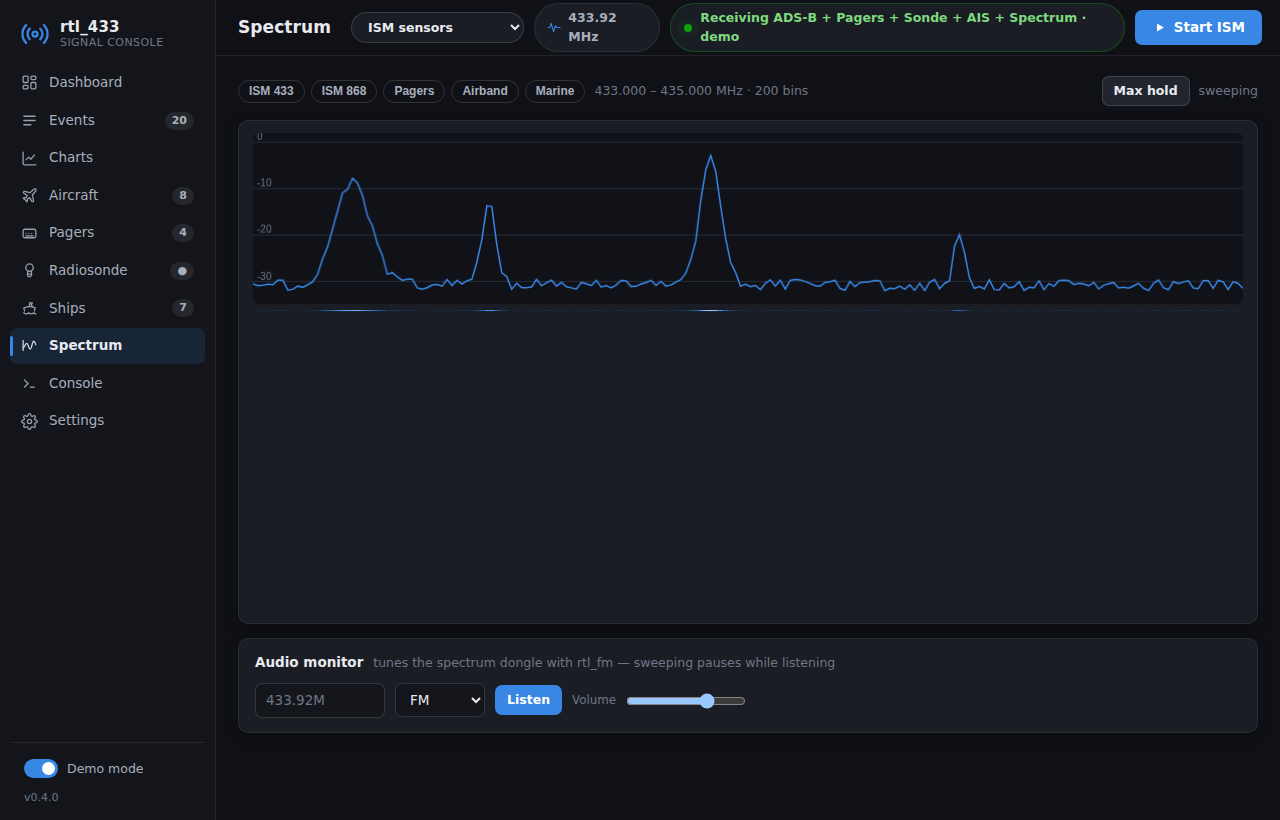
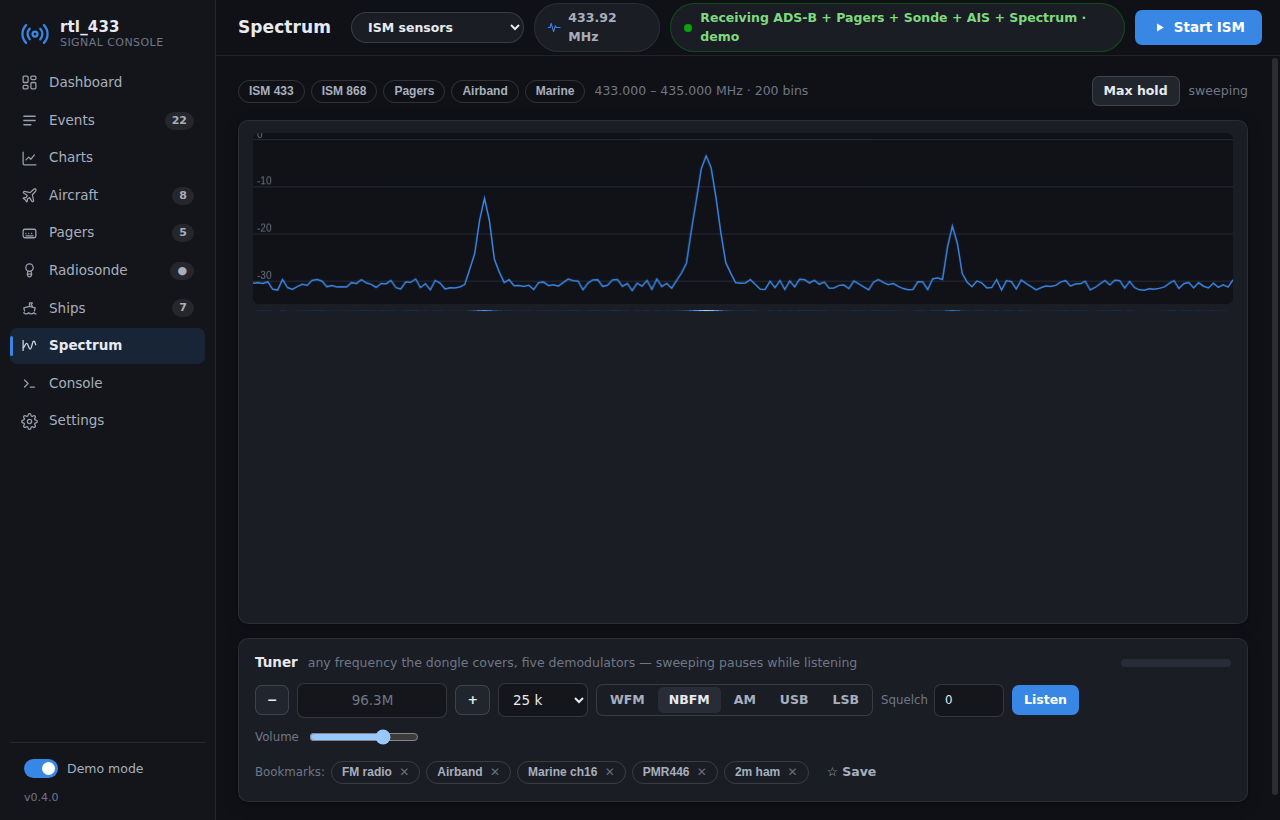
Grow the spectrum audio monitor into a general-coverage tuner (GUI 0.4.1)
Any frequency the dongle supports, five demodulators (WFM broadcast,
NBFM, AM for airband, USB/LSB for SSB), step buttons with selectable
step size, squelch, live retuning while listening, savable bookmarks
(seeded with FM radio / airband / marine ch16 / PMR446 / 2m ham), and
an audio level meter. Clicking a peak on the sweep trace still tunes
straight to it.

Claude-Session: https://claude.ai/code/session_01Qqgn7sB64pZNv3p4Phjj2r

diff --git a/gui/renderer/js/views/spectrum.js b/gui/renderer/js/views/spectrum.js
@@ -12,6 +12,26 @@ let listening = false;
 let audioCtx = null;
 let gainNode = null;
 let nextAudioTime = 0;
+let audioRate = 24000; // set from the active demodulator on listenStart
+let selectedDemod = 'nbfm';
+let meterDecay = 0;
+
+// '96.3M' / '156800k' / '96300000' -> Hz (null when unparsable)
+function parseFreqHz(s) {
+  const m = String(s).trim().match(/^([\d.]+)\s*([MkG]?)(?:Hz)?$/i);
+  if (!m) return null;
+  let v = parseFloat(m[1]);
+  const suf = m[2].toUpperCase();
+  if (suf === 'G') v *= 1e9;
+  else if (suf === 'M') v *= 1e6;
+  else if (suf === 'K') v *= 1e3;
+  else if (v < 3000) v *= 1e6; // a bare small number means MHz
+  return Math.round(v);
+}
+
+function fmtFreqM(hz) {
+  return `${+(hz / 1e6).toFixed(6)}M`;
+}
 
 const TRACE_H = 170;
 const WATER_H = 300;
@@ -42,19 +62,38 @@ export function initSpectrum() {
     </div>
     <div class="chart-card" style="padding:14px 16px">
       <div class="chart-head" style="margin-bottom:10px">
-        <span class="chart-title">Audio monitor</span>
-        <span class="section-sub">tunes the spectrum dongle with rtl_fm — sweeping pauses while listening</span>
+        <span class="chart-title">Tuner</span>
+        <span class="section-sub">any frequency the dongle covers, five demodulators — sweeping pauses while listening</span>
+        <div class="chart-legend"><span class="tuner-meter" id="sp-meter" title="Audio level"><i></i></span></div>
       </div>
-      <div class="form-field" style="gap:10px">
-        <input type="text" id="sp-listen-freq" style="width:130px" placeholder="433.92M" />
-        <select id="sp-listen-mode" style="width:90px">
-          <option value="fm">FM</option>
-          <option value="am">AM</option>
+      <div class="form-field" style="gap:8px;margin-bottom:10px">
+        <button class="btn btn-sm" id="sp-step-down">−</button>
+        <input type="text" id="sp-listen-freq" class="tuner-freq" placeholder="96.3M" />
+        <button class="btn btn-sm" id="sp-step-up">+</button>
+        <select id="sp-step" style="width:90px" title="Step size">
+          <option value="12500">12.5 kHz</option>
+          <option value="25000" selected>25 kHz</option>
+          <option value="100000">100 kHz</option>
+          <option value="1000000">1 MHz</option>
         </select>
+        <div class="seg" id="sp-demod">
+          <button data-demod="wfm">WFM</button>
+          <button data-demod="nbfm" class="active">NBFM</button>
+          <button data-demod="am">AM</button>
+          <button data-demod="usb">USB</button>
+          <button data-demod="lsb">LSB</button>
+        </div>
+        <label class="form-hint" style="display:flex;align-items:center;gap:6px" title="Mute below this level (NBFM/AM)">Squelch
+          <input type="number" id="sp-squelch" min="0" max="1000" value="0" style="width:70px" /></label>
         <button class="btn btn-sm btn-primary" id="sp-listen-btn">Listen</button>
         <label class="form-hint" style="display:flex;align-items:center;gap:8px">Volume
-          <input type="range" id="sp-volume" min="0" max="100" value="70" style="width:120px" /></label>
+          <input type="range" id="sp-volume" min="0" max="100" value="70" style="width:110px" /></label>
         <span class="form-hint" id="sp-listen-status"></span>
+      </div>
+      <div class="form-field" style="gap:6px">
+        <span class="form-hint">Bookmarks:</span>
+        <div class="preset-chips" id="sp-bookmarks"></div>
+        <button class="btn btn-ghost btn-sm" id="sp-bookmark-add" title="Bookmark the current frequency and demodulator">☆ Save</button>
       </div>
     </div>
     <div class="empty-state" id="sp-empty">
@@ -120,6 +159,58 @@ export function initSpectrum() {
   document.getElementById('sp-volume').addEventListener('input', (e) => {
     if (gainNode) gainNode.gain.value = Number(e.target.value) / 100;
   });
+
+  // tuner controls: steps, demodulator, squelch, bookmarks
+  const stepBy = (dir) => {
+    const hz = parseFreqHz(document.getElementById('sp-listen-freq').value || '96.3M');
+    if (hz == null) return;
+    const step = Number(document.getElementById('sp-step').value);
+    document.getElementById('sp-listen-freq').value = fmtFreqM(hz + dir * step);
+    retuneIfLive();
+  };
+  document.getElementById('sp-step-down').addEventListener('click', () => stepBy(-1));
+  document.getElementById('sp-step-up').addEventListener('click', () => stepBy(1));
+  document.getElementById('sp-listen-freq').addEventListener('change', retuneIfLive);
+  document.getElementById('sp-squelch').addEventListener('change', retuneIfLive);
+  document.getElementById('sp-demod').addEventListener('click', (e) => {
+    const btn = e.target.closest('[data-demod]');
+    if (!btn) return;
+    selectedDemod = btn.dataset.demod;
+    for (const b of document.querySelectorAll('#sp-demod button')) {
+      b.classList.toggle('active', b === btn);
+    }
+    retuneIfLive();
+  });
+
+  document.getElementById('sp-bookmarks').addEventListener('click', (e) => {
+    const chip = e.target.closest('[data-bm]');
+    if (!chip) return;
+    if (e.target.dataset.bmDel != null) {
+      const bms = store.settings.tunerBookmarks || [];
+      bms.splice(Number(e.target.dataset.bmDel), 1);
+      window.rtl433.saveSettings({ tunerBookmarks: bms }).then((s) => (store.settings = s));
+      renderBookmarks();
+      return;
+    }
+    const bm = (store.settings.tunerBookmarks || [])[Number(chip.dataset.bm)];
+    if (!bm) return;
+    document.getElementById('sp-listen-freq').value = bm.freq;
+    selectedDemod = bm.demod || 'nbfm';
+    for (const b of document.querySelectorAll('#sp-demod button')) {
+      b.classList.toggle('active', b.dataset.demod === selectedDemod);
+    }
+    retuneIfLive();
+  });
+  document.getElementById('sp-bookmark-add').addEventListener('click', async () => {
+    const freq = document.getElementById('sp-listen-freq').value.trim();
+    if (!parseFreqHz(freq)) return window.toast('Enter a frequency first.', 'error');
+    const bms = store.settings.tunerBookmarks || [];
+    bms.push({ name: `${(parseFreqHz(freq) / 1e6).toFixed(3)} MHz`, freq, demod: selectedDemod });
+    store.settings = await window.rtl433.saveSettings({ tunerBookmarks: bms });
+    renderBookmarks();
+    window.toast('Bookmark saved.', 'success');
+  });
+  renderBookmarks();
 
   window.rtl433.onSpectrum((sweep) => {
     lastSweep = sweep;
@@ -278,29 +369,43 @@ function drawWaterfall(sweep) {
   ctx.putImageData(row, 0, 0);
 }
 
-// ---- audio monitor ----
+// ---- tuner / audio monitor ----
+function renderBookmarks() {
+  const host = document.getElementById('sp-bookmarks');
+  const bms = store.settings?.tunerBookmarks || [];
+  host.innerHTML = bms
+    .map(
+      (bm, i) => `<button class="preset-chip" data-bm="${i}" title="${esc(bm.freq)} · ${esc((bm.demod || 'nbfm').toUpperCase())}">
+        ${esc(bm.name)} <span data-bm-del="${i}" title="Remove bookmark" style="opacity:.55;margin-left:4px">✕</span>
+      </button>`
+    )
+    .join('');
+}
+
 function setListenUI(on) {
   listening = on;
   const btn = document.getElementById('sp-listen-btn');
   btn.textContent = on ? 'Stop listening' : 'Listen';
   btn.classList.toggle('btn-danger', on);
   btn.classList.toggle('btn-primary', !on);
-  document.getElementById('sp-listen-status').textContent = on ? 'live audio — sweep paused' : '';
+  if (!on) {
+    document.getElementById('sp-listen-status').textContent = '';
+    setMeter(0);
+  }
 }
 
-async function toggleListen() {
-  if (listening) {
-    await window.rtl433.listenStop();
-    setListenUI(false);
-    return;
-  }
-  const freq = document.getElementById('sp-listen-freq').value.trim() || '433.92M';
-  const demod = document.getElementById('sp-listen-mode').value;
-  const res = await window.rtl433.listenStart({ freq, demod });
+async function startListening() {
+  const freq = document.getElementById('sp-listen-freq').value.trim() || '96.3M';
+  const res = await window.rtl433.listenStart({
+    freq,
+    demod: selectedDemod,
+    squelch: Number(document.getElementById('sp-squelch').value) || 0,
+  });
   if (res.ok === false) {
     window.toast(res.error || 'Could not start audio', 'error');
-    return;
+    return false;
   }
+  audioRate = res.sampleRate || 24000;
   if (!audioCtx) {
     audioCtx = new AudioContext();
     gainNode = audioCtx.createGain();
@@ -309,7 +414,28 @@ async function toggleListen() {
   }
   audioCtx.resume();
   nextAudioTime = 0;
+  document.getElementById('sp-listen-status').textContent =
+    `${(parseFreqHz(freq) / 1e6).toFixed(4)} MHz ${selectedDemod.toUpperCase()} — sweep paused`;
   setListenUI(true);
+  return true;
+}
+
+function retuneIfLive() {
+  if (listening) startListening();
+}
+
+async function toggleListen() {
+  if (listening) {
+    await window.rtl433.listenStop();
+    setListenUI(false);
+    return;
+  }
+  await startListening();
+}
+
+function setMeter(level) {
+  const bar = document.querySelector('#sp-meter i');
+  if (bar) bar.style.width = `${Math.round(Math.min(1, level) * 100)}%`;
 }
 
 function playAudioChunk(data) {
@@ -318,9 +444,18 @@ function playAudioChunk(data) {
   const usable = bytes.length & ~1;
   const samples = new Int16Array(bytes.buffer, bytes.byteOffset, usable / 2);
   if (!samples.length) return;
-  const buf = audioCtx.createBuffer(1, samples.length, 24000);
+  const buf = audioCtx.createBuffer(1, samples.length, audioRate);
   const ch = buf.getChannelData(0);
-  for (let i = 0; i < samples.length; i++) ch[i] = samples[i] / 32768;
+  let sum = 0;
+  for (let i = 0; i < samples.length; i++) {
+    const v = samples[i] / 32768;
+    ch[i] = v;
+    sum += v * v;
+  }
+  // audio level meter with a little decay so it reads smoothly
+  const rms = Math.sqrt(sum / samples.length);
+  meterDecay = Math.max(rms * 2.5, meterDecay * 0.85);
+  setMeter(meterDecay);
   const src = audioCtx.createBufferSource();
   src.buffer = buf;
   src.connect(gainNode);

diff --git a/gui/main/spectrum-source.js b/gui/main/spectrum-source.js
@@ -10,6 +10,15 @@ const fs = require('fs');
 const path = require('path');
 const { resolveRtlFm } = require('./pager-source');
 
+// demodulator -> rtl_fm arguments and the resulting audio sample rate
+const DEMODS = {
+  wfm: { args: ['-M', 'wbfm', '-s', '170k', '-r', '32000'], rate: 32000 },
+  nbfm: { args: ['-M', 'fm', '-s', '24000'], rate: 24000 },
+  am: { args: ['-M', 'am', '-s', '24000'], rate: 24000 },
+  usb: { args: ['-M', 'usb', '-s', '24000'], rate: 24000 },
+  lsb: { args: ['-M', 'lsb', '-s', '24000'], rate: 24000 },
+};
+
 function resolveRtlPower(configured) {
   if (configured && configured.trim()) return configured.trim();
   const exe = process.platform === 'win32' ? 'rtl_power.exe' : 'rtl_power';
@@ -136,12 +145,16 @@ class SpectrumSource extends EventEmitter {
     });
   }
 
-  // ---- listen (rtl_fm audio to the renderer) ----
-  startListen(settings, { freq, demod }) {
-    // stop the sweep (same dongle) but keep the mode 'running'
+  // ---- listen (rtl_fm audio to the renderer): a general-coverage tuner ----
+  // Any frequency the dongle supports, five demodulators, optional squelch.
+  // Calling again while listening retunes (the old child is superseded).
+  startListen(settings, { freq, demod, squelch }) {
+    // stop the sweep or previous tune (same dongle) but keep the mode 'running'
     this._switchOff();
     const bin = resolveRtlFm(settings.rtlFmPath);
-    const args = ['-M', demod === 'am' ? 'am' : 'fm', '-f', String(freq), '-s', '24000'];
+    const d = DEMODS[demod] || DEMODS.nbfm;
+    const args = [...d.args, '-f', String(freq)];
+    if (squelch && Number(squelch) > 0) args.push('-l', String(Number(squelch)));
     if (settings.spectrumDevice) args.push('-d', String(settings.spectrumDevice));
     if (settings.spectrumGain !== '' && settings.spectrumGain != null) args.push('-g', String(settings.spectrumGain));
     if (settings.ppmError) args.push('-p', String(settings.ppmError));
@@ -151,13 +164,16 @@ class SpectrumSource extends EventEmitter {
     const res = this._spawnCommon(bin, args, 'rtl_fm (listen)', 'spectrum');
     if (res.error) return { ok: false, error: res.error };
     this.submode = 'listen';
-    this.emit('status', { state: 'running', pid: res.child.pid, mode: 'spectrum', submode: 'listen', freq });
+    this.emit('status', {
+      state: 'running', pid: res.child.pid, mode: 'spectrum',
+      submode: 'listen', freq, demod: demod || 'nbfm', sampleRate: d.rate,
+    });
 
     res.child.stdout.on('data', (buf) => {
-      // raw s16le mono 24 kHz chunks straight to the renderer
+      // raw s16le mono chunks straight to the renderer
       this.emit('audio', buf);
     });
-    return { ok: true, sampleRate: 24000 };
+    return { ok: true, sampleRate: d.rate };
   }
 
   stopListen(settings) {

diff --git a/gui/renderer/styles.css b/gui/renderer/styles.css
@@ -916,6 +916,32 @@ input[type="checkbox"] { accent-color: var(--accent); width: 15px; height: 15px;
   z-index: 5;
 }
 
+/* tuner */
+.tuner-freq {
+  width: 150px;
+  font-size: 16px;
+  font-weight: 650;
+  font-variant-numeric: tabular-nums;
+  text-align: center;
+  color: var(--accent);
+}
+.tuner-meter {
+  display: inline-block;
+  width: 110px;
+  height: 8px;
+  border-radius: 4px;
+  background: var(--surface-3);
+  overflow: hidden;
+}
+.tuner-meter i {
+  display: block;
+  height: 100%;
+  width: 0%;
+  border-radius: 4px;
+  background: linear-gradient(90deg, #199e70, #eda100 75%, #d03b3b);
+  transition: width 0.1s linear;
+}
+
 /* alerts */
 .alert-strip {
   display: flex;

diff --git a/gui/main/settings.js b/gui/main/settings.js
@@ -67,6 +67,14 @@ const DEFAULTS = {
   // alert rules: {id, name, enabled, deviceKey|'', metric, op, value, from, to}
   alertRules: [],
   closeToTray: false,
+  // tuner bookmarks for the spectrum view's audio monitor
+  tunerBookmarks: [
+    { name: 'FM radio', freq: '96.3M', demod: 'wfm' },
+    { name: 'Airband', freq: '118.5M', demod: 'am' },
+    { name: 'Marine ch16', freq: '156.8M', demod: 'nbfm' },
+    { name: 'PMR446', freq: '446.00625M', demod: 'nbfm' },
+    { name: '2m ham', freq: '145.5M', demod: 'nbfm' },
+  ],
 };
 
 class Settings {

diff --git a/README.md b/README.md
@@ -93,11 +93,13 @@ and wakes.
 
 ![ships](gui/docs/ships.png)
 
-**Spectrum analyzer** — sweep any range with the bundled `rtl_power`: a live
-trace with max-hold plus a scrolling waterfall, band presets (ISM 433/868,
-pagers, airband, marine), and click-to-read frequencies. An **audio monitor**
-tunes the same dongle with `rtl_fm` so you can *listen* to FM/AM signals you
-spot — click a peak to tune it.
+**Spectrum analyzer + tuner** — sweep any range with the bundled `rtl_power`:
+a live trace with max-hold plus a scrolling waterfall, band presets (ISM
+433/868, pagers, airband, marine), and click-to-read frequencies. Below it, a
+full **general-coverage tuner**: dial in any frequency the dongle supports
+(24 MHz–1.7 GHz), pick a demodulator — **WFM** for broadcast radio, **NBFM**,
+**AM** for airband, **USB/LSB** for SSB — with step buttons, squelch, savable
+bookmarks and live retuning. Click a peak on the trace to tune straight to it.
 
 ![spectrum](gui/docs/spectrum.png)
 

diff --git a/gui/README.md b/gui/README.md
@@ -26,8 +26,10 @@ console with six receiver modes that run concurrently across multiple dongles.
   altitude, climb, wind and PTU telemetry via the bundled rs1729/RS decoders.
 - **Ships (AIS)** — vessels with wakes on the map, decoded in-app (HDLC,
   CRC-16/X.25, position + static reports).
-- **Spectrum** — rtl_power sweeps with live trace, max hold and waterfall;
-  band presets; click a peak and **listen** to it (FM/AM audio monitor).
+- **Spectrum + tuner** — rtl_power sweeps with live trace, max hold and
+  waterfall; band presets; plus a general-coverage tuner (WFM / NBFM / AM /
+  USB / LSB) with step buttons, squelch and bookmarks — click a peak on the
+  trace to tune it.
 - **Alert rules** — thresholds, change detection and time windows per
   device/metric, with desktop notifications and a dashboard alert strip.
 - **Integrations** — MQTT output for Home Assistant, straight from rtl_433.
